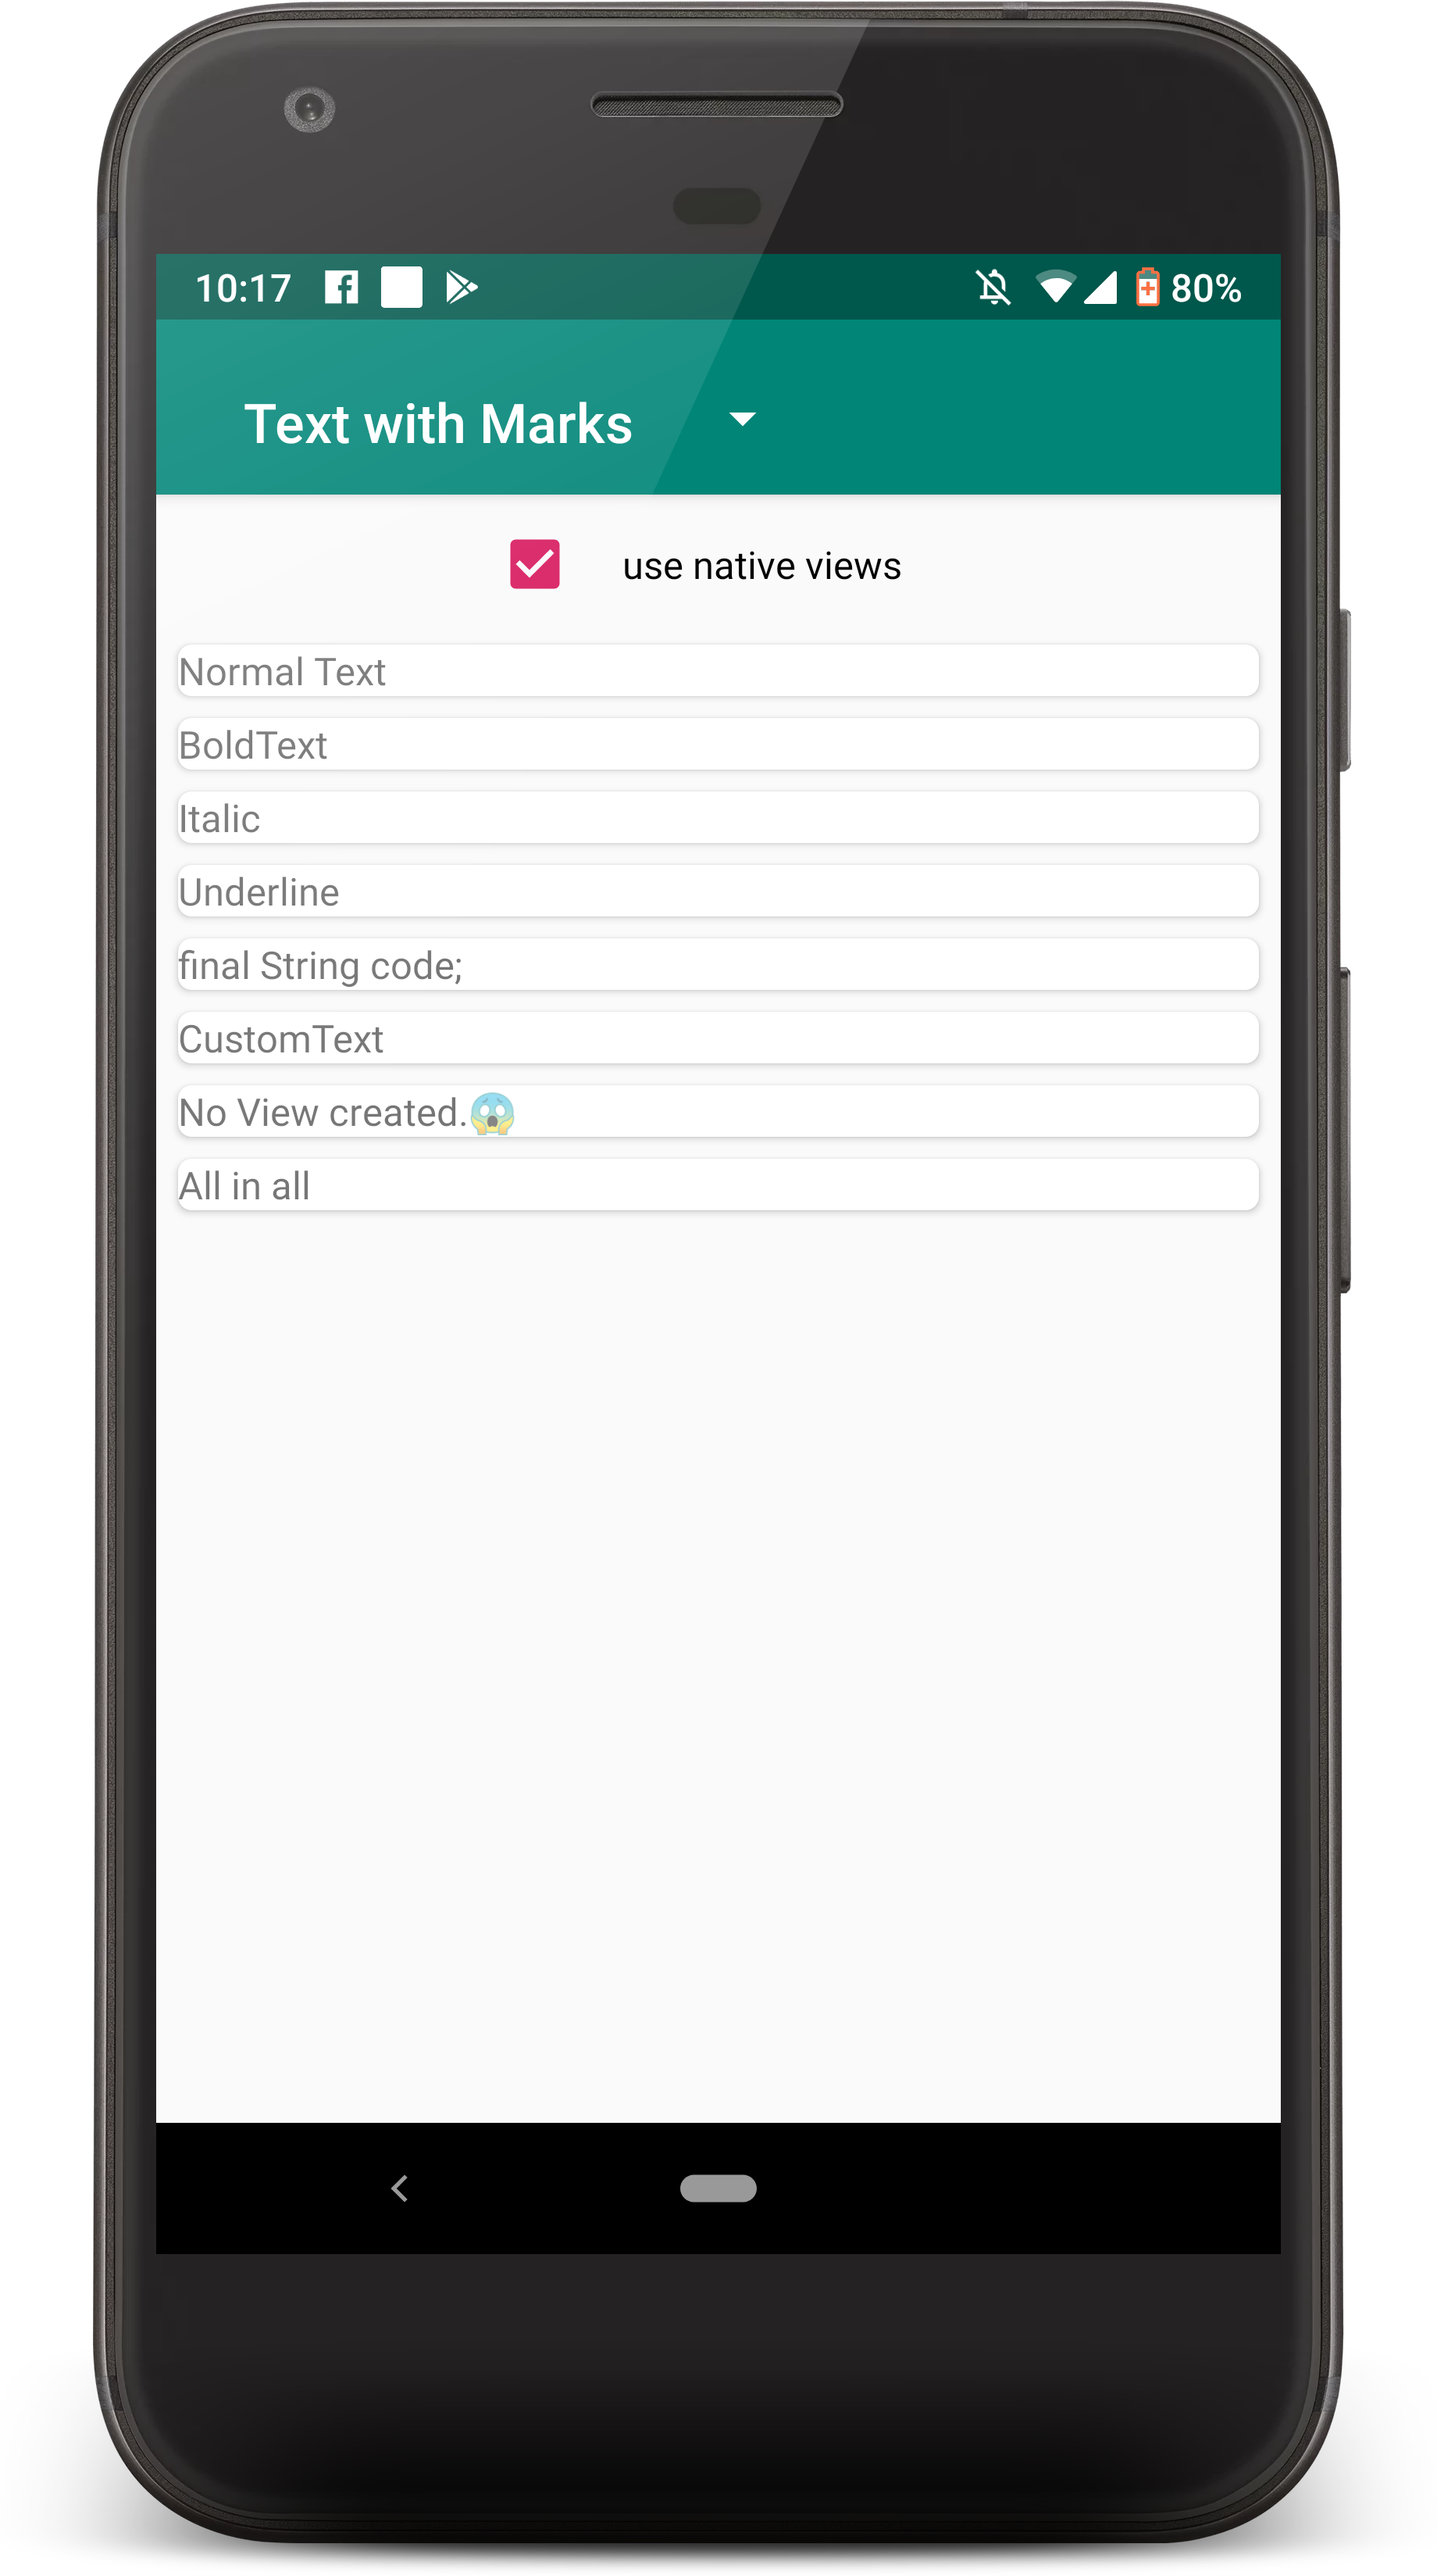
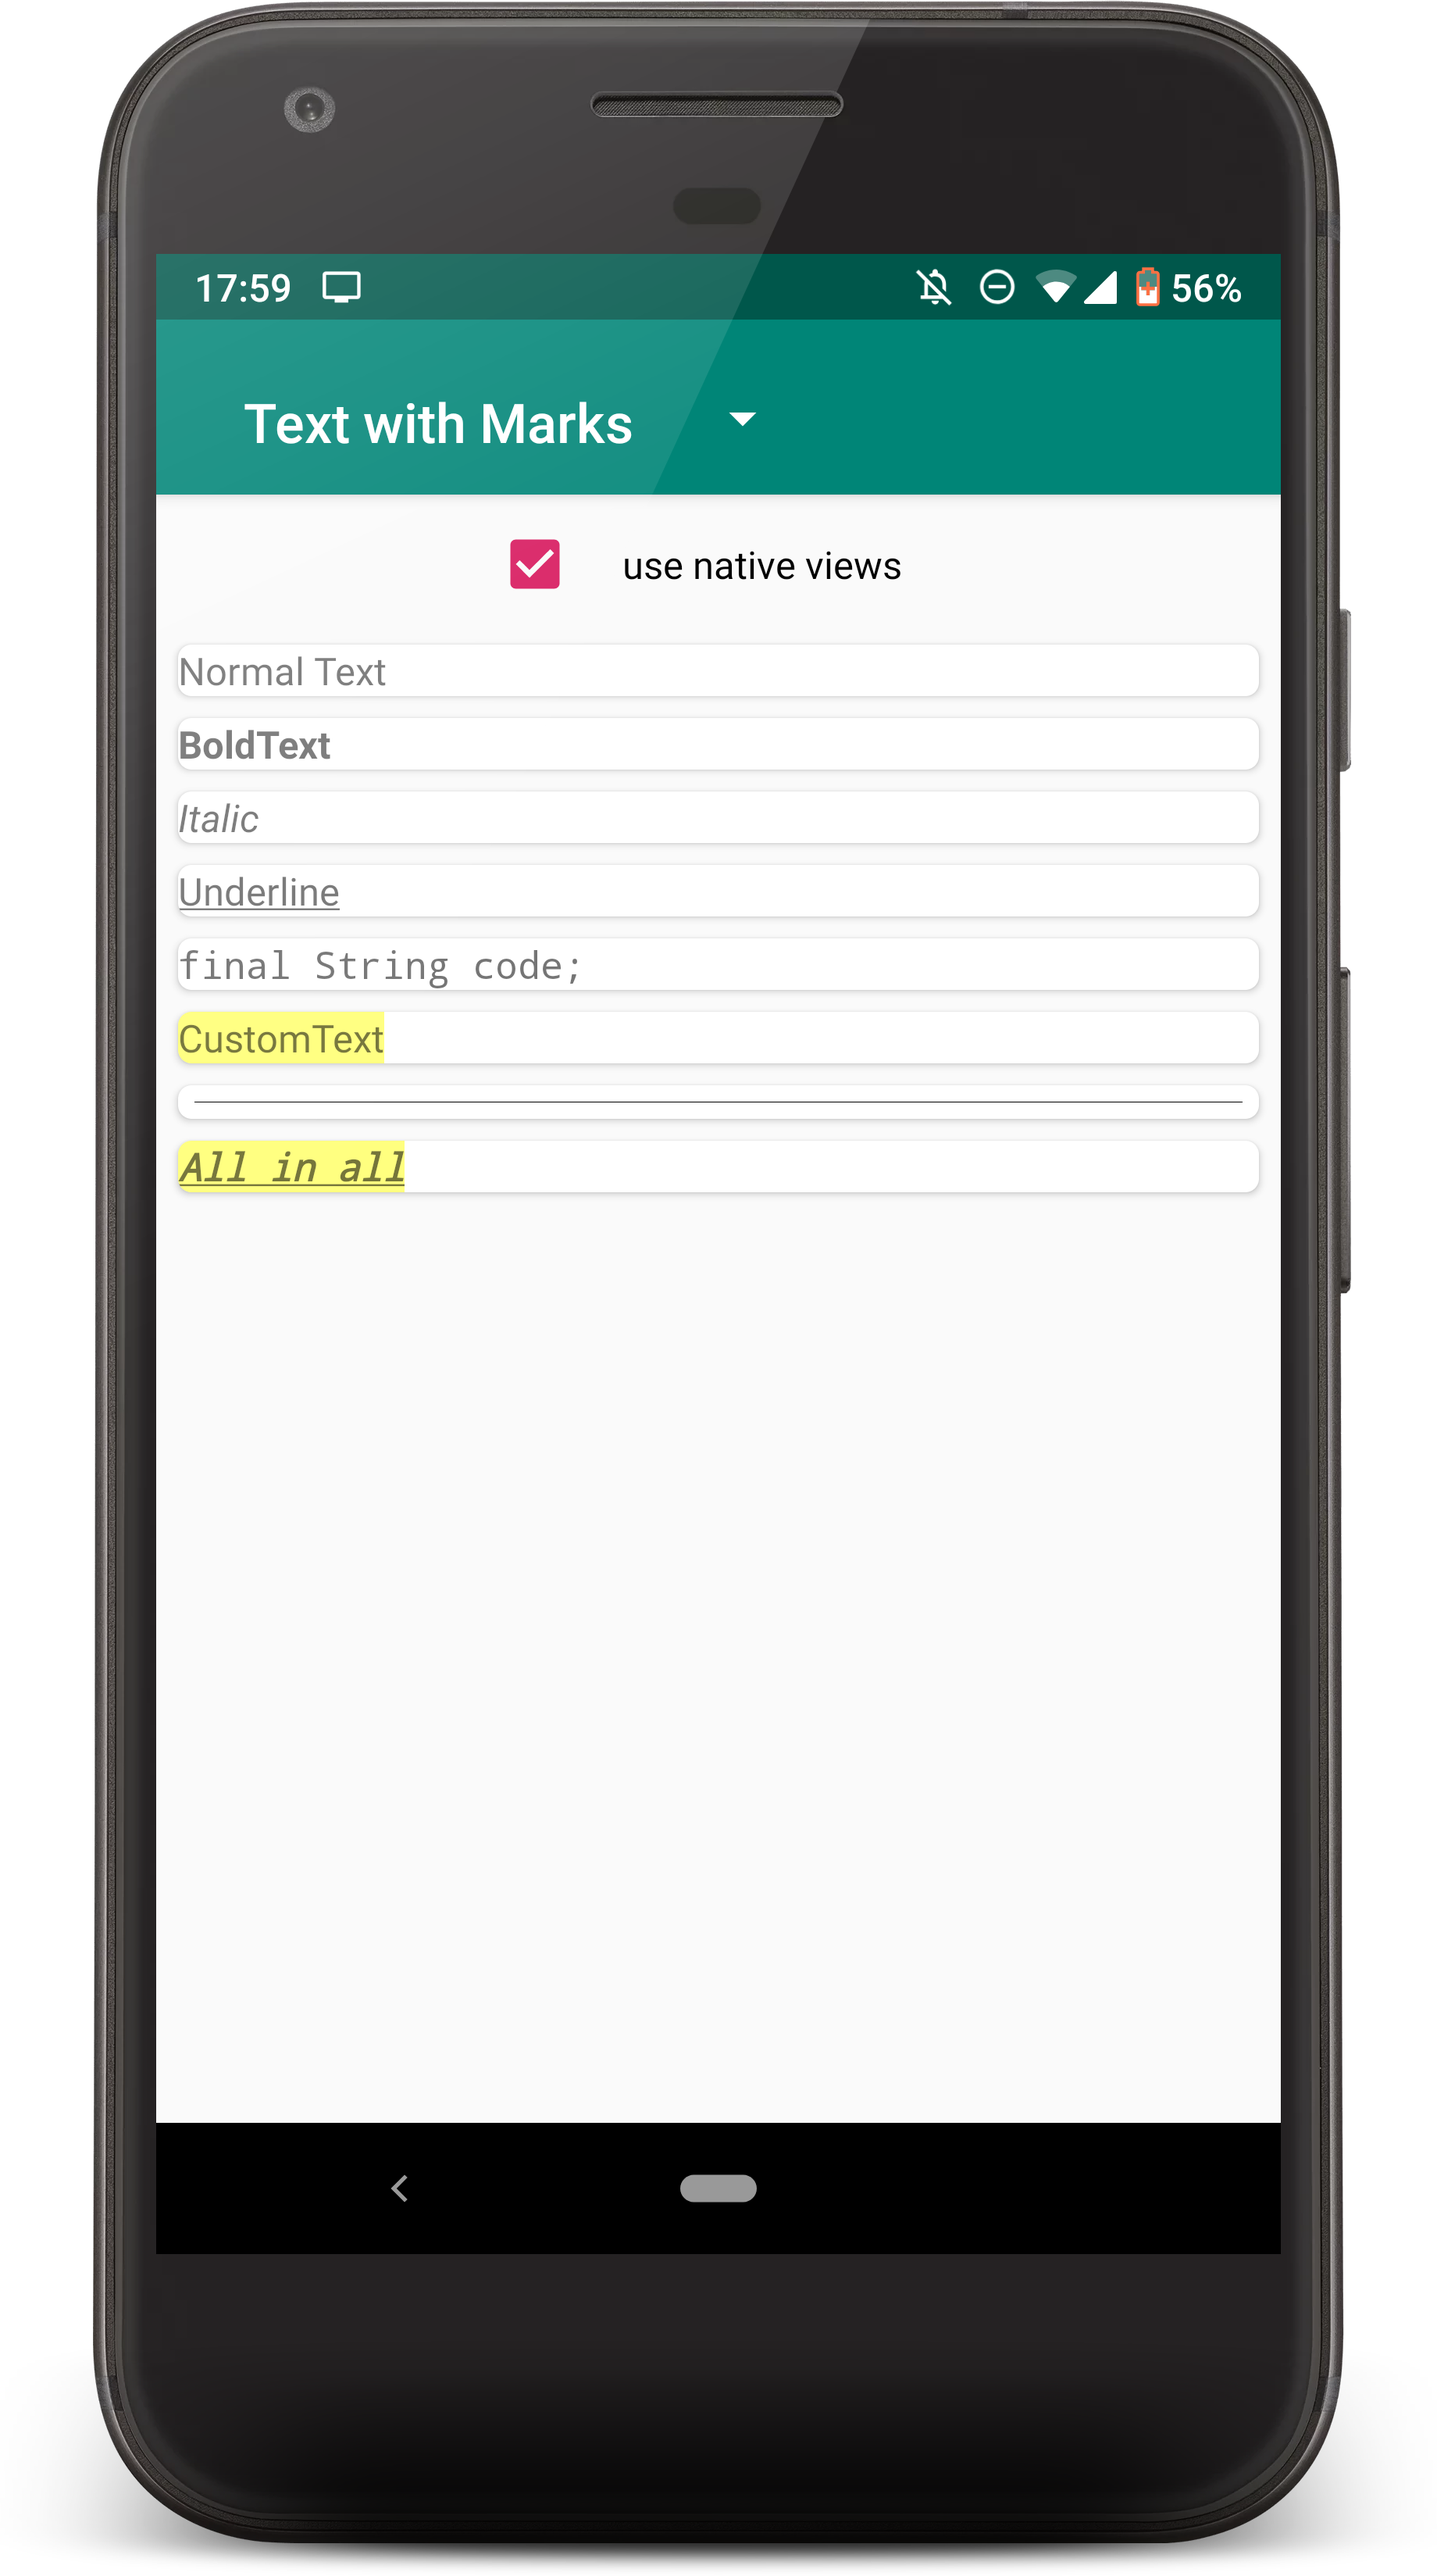
add native horizontal rules.

diff --git a/android/src/test/java/views/MarksTextTest.java b/android/src/test/java/views/MarksTextTest.java
@@ -2,7 +2,6 @@ package views;
 
 import android.app.Activity;
 import android.graphics.Typeface;
-import android.text.Spannable;
 import android.text.SpannedString;
 import android.text.style.BackgroundColorSpan;
 import android.text.style.StyleSpan;
@@ -79,17 +78,17 @@ public class MarksTextTest {
     assertThat(content).isNotNull();
 
     final ArrayList<View> views = new ArrayList<>();
-    content.findViewsWithText(views, "text", View.FIND_VIEWS_WITH_TEXT);
+    content.findViewsWithText(views, "BoldText", View.FIND_VIEWS_WITH_TEXT);
     assertThat(views).hasSize(1);
     assertThat(views.get(0)).isInstanceOf(TextView.class);
 
     final CharSequence sequence = ((TextView) views.get(0)).getText();
     assertThat(sequence).isNotNull();
     assertThat(sequence).isInstanceOf(SpannedString.class);
-    assertThat(sequence.toString()).isEqualTo("text");
+    assertThat(sequence.toString()).isEqualTo("BoldText");
 
-    final Spannable spannable = (Spannable) sequence;
-    final Object[] spans = spannable.getSpans(0, spannable.length(), Object.class);
+    final SpannedString spannedString = (SpannedString) sequence;
+    final Object[] spans = spannedString.getSpans(0, spannedString.length(), Object.class);
     assertThat(spans.length).isEqualTo(1);
 
     final Object span = spans[0];
@@ -114,19 +113,19 @@ public class MarksTextTest {
     assertThat(content).isNotNull();
 
     final ArrayList<View> views = new ArrayList<>();
-    content.findViewsWithText(views, "text", View.FIND_VIEWS_WITH_TEXT);
+    content.findViewsWithText(views, "Underlined", View.FIND_VIEWS_WITH_TEXT);
     assertThat(views).hasSize(1);
     assertThat(views.get(0)).isInstanceOf(TextView.class);
 
     final CharSequence sequence = ((TextView) views.get(0)).getText();
     assertThat(sequence).isNotNull();
     assertThat(sequence).isInstanceOf(SpannedString.class);
-    assertThat(sequence.toString()).isEqualTo("text");
+    assertThat(sequence.toString()).isEqualTo("Underlined");
 
-    final Spannable spannable = (Spannable) sequence;
-    assertThat(spannable.getSpans(0, spannable.length(), Object.class).length).isEqualTo(0);
+    final SpannedString spannedString = (SpannedString) sequence;
+    assertThat(spannedString.getSpans(0, spannedString.length(), Object.class).length).isEqualTo(1);
 
-    final Object[] spans = spannable.getSpans(0, spannable.length(), Object.class);
+    final Object[] spans = spannedString.getSpans(0, spannedString.length(), Object.class);
     assertThat(spans.length).isEqualTo(1);
 
     final Object span = spans[0];
@@ -158,7 +157,7 @@ public class MarksTextTest {
     assertThat(sequence.toString()).isEqualTo("Italic");
 
     final SpannedString spannable = (SpannedString) sequence;
-    assertThat(spannable.getSpans(0, spannable.length(), Object.class).length).isEqualTo(0);
+    assertThat(spannable.getSpans(0, spannable.length(), Object.class).length).isEqualTo(1);
 
     final Object[] spans = spannable.getSpans(0, spannable.length(), Object.class);
     assertThat(spans.length).isEqualTo(1);
@@ -195,7 +194,7 @@ public class MarksTextTest {
     assertThat(sequence.toString()).isEqualTo("final String code;");
 
     final SpannedString spannable = (SpannedString) sequence;
-    assertThat(spannable.getSpans(0, spannable.length(), Object.class).length).isEqualTo(0);
+    assertThat(spannable.getSpans(0, spannable.length(), Object.class).length).isEqualTo(1);
 
     final Object[] spans = spannable.getSpans(0, spannable.length(), Object.class);
     assertThat(spans.length).isEqualTo(1);
@@ -222,17 +221,17 @@ public class MarksTextTest {
     assertThat(content).isNotNull();
 
     final ArrayList<View> views = new ArrayList<>();
-    content.findViewsWithText(views, "text", View.FIND_VIEWS_WITH_TEXT);
+    content.findViewsWithText(views, "🐭", View.FIND_VIEWS_WITH_TEXT);
     assertThat(views).hasSize(1);
     assertThat(views.get(0)).isInstanceOf(TextView.class);
 
     final CharSequence sequence = ((TextView) views.get(0)).getText();
     assertThat(sequence).isNotNull();
     assertThat(sequence).isInstanceOf(SpannedString.class);
-    assertThat(sequence.toString()).isEqualTo("text");
+    assertThat(sequence.toString()).isEqualTo("🐭");
 
     final SpannedString spannable = (SpannedString) sequence;
-    assertThat(spannable.getSpans(0, spannable.length(), Object.class).length).isEqualTo(0);
+    assertThat(spannable.getSpans(0, spannable.length(), Object.class).length).isEqualTo(1);
 
     final Object[] spans = spannable.getSpans(0, spannable.length(), Object.class);
     assertThat(spans.length).isEqualTo(1);
@@ -261,17 +260,17 @@ public class MarksTextTest {
     assertThat(content).isNotNull();
 
     final ArrayList<View> views = new ArrayList<>();
-    content.findViewsWithText(views, "text", View.FIND_VIEWS_WITH_TEXT);
+    content.findViewsWithText(views, "All in all", View.FIND_VIEWS_WITH_TEXT);
     assertThat(views).hasSize(1);
     assertThat(views.get(0)).isInstanceOf(TextView.class);
 
     final CharSequence sequence = ((TextView) views.get(0)).getText();
     assertThat(sequence).isNotNull();
     assertThat(sequence).isInstanceOf(SpannedString.class);
-    assertThat(sequence.toString()).isEqualTo("text");
+    assertThat(sequence.toString()).isEqualTo("All in all");
 
     final SpannedString spannable = (SpannedString) sequence;
-    assertThat(spannable.getSpans(0, spannable.length(), Object.class).length).isEqualTo(0);
+    assertThat(spannable.getSpans(0, spannable.length(), Object.class).length).isEqualTo(6);
 
     final Object[] spans = spannable.getSpans(0, spannable.length(), Object.class);
     assertThat(spans.length).isEqualTo(6);

diff --git a/android/src/main/java/com/contentful/rich/android/renderer/views/HorizontalRuleRenderer.java b/android/src/main/java/com/contentful/rich/android/renderer/views/HorizontalRuleRenderer.java
@@ -1,0 +1,51 @@
+package com.contentful.rich.android.renderer.views;
+
+import android.view.View;
+
+import com.contentful.java.cda.rich.CDARichHorizontalRule;
+import com.contentful.java.cda.rich.CDARichNode;
+import com.contentful.rich.android.AndroidContext;
+import com.contentful.rich.android.AndroidProcessor;
+import com.contentful.rich.android.AndroidRenderer;
+import com.contentful.rich.android.R;
+
+import javax.annotation.Nonnull;
+import javax.annotation.Nullable;
+
+/**
+ * This renderer will render a rich text node into a TextView, respecting it's marks.
+ */
+public class HorizontalRuleRenderer extends AndroidRenderer<AndroidContext, View> {
+  /**
+   * Constructor taking a processor for child processing.
+   * <p>
+   * Since CDARichText do not have children, the parameter will be ignored.
+   *
+   * @param processor used for subrendering of children.
+   */
+  public HorizontalRuleRenderer(@Nonnull AndroidProcessor<View> processor) {
+    super(processor);
+  }
+
+  /**
+   * Is the incoming node a horizontal rule?
+   *
+   * @param context context this check should be performed in
+   * @param node    node to be checked
+   * @return true if the node is a rich rule node.
+   */
+  @Override public boolean check(@Nullable AndroidContext context, @Nonnull CDARichNode node) {
+    return node instanceof CDARichHorizontalRule;
+  }
+
+  /**
+   * Creates a horizontal line.
+   *
+   * @param context the generic context this node should be rendered in.
+   * @param node    the node to be rendered.
+   * @return a view representing a horizontal line.
+   */
+  @Nullable @Override public View render(@Nonnull AndroidContext context, @Nonnull CDARichNode node) {
+    return context.getInflater().inflate(R.layout.ritch_horizontal_rule_layout, null);
+  }
+}

diff --git a/android/src/main/java/com/contentful/rich/android/renderer/views/TextRenderer.java b/android/src/main/java/com/contentful/rich/android/renderer/views/TextRenderer.java
@@ -58,12 +58,12 @@ public class TextRenderer extends AndroidRenderer<AndroidContext, View> {
    *
    * @param context the generic context this node should be rendered in.
    * @param node    the node to be rendered.
-   * @return a spannable containing the text content of the rich text and decorations based on its markers.
+   * @return a view containing the text content of the rich text and decorations based on its markers.
    */
   @Nullable @Override public View render(@Nonnull AndroidContext context, @Nonnull CDARichNode node) {
     final CDARichText richText = (CDARichText) node;
 
-    final View result = context.getInflater().inflate(R.layout.richt_text_layout, null);
+    final View result = context.getInflater().inflate(R.layout.ritch_text_layout, null);
     final TextView content = result.findViewById(R.id.rich_text_content);
     final SpannableStringBuilder textContent = new SpannableStringBuilder(richText.getText());
 

diff --git a/android/src/main/java/com/contentful/rich/android/renderer/views/NativeViewsRendererProvider.java b/android/src/main/java/com/contentful/rich/android/renderer/views/NativeViewsRendererProvider.java
@@ -6,8 +6,17 @@ import com.contentful.rich.android.AndroidProcessor;
 
 import javax.annotation.Nonnull;
 
+/**
+ * Provider for all native renderers.
+ */
 public class NativeViewsRendererProvider {
+  /**
+   * Fill up the given processor with the default renderers supporting native views.
+   *
+   * @param processor the processor to be augmented.
+   */
   public void provide(@Nonnull AndroidProcessor<View> processor) {
     processor.addRenderer(new TextRenderer(processor));
+    processor.addRenderer(new HorizontalRuleRenderer(processor));
   }
 }
